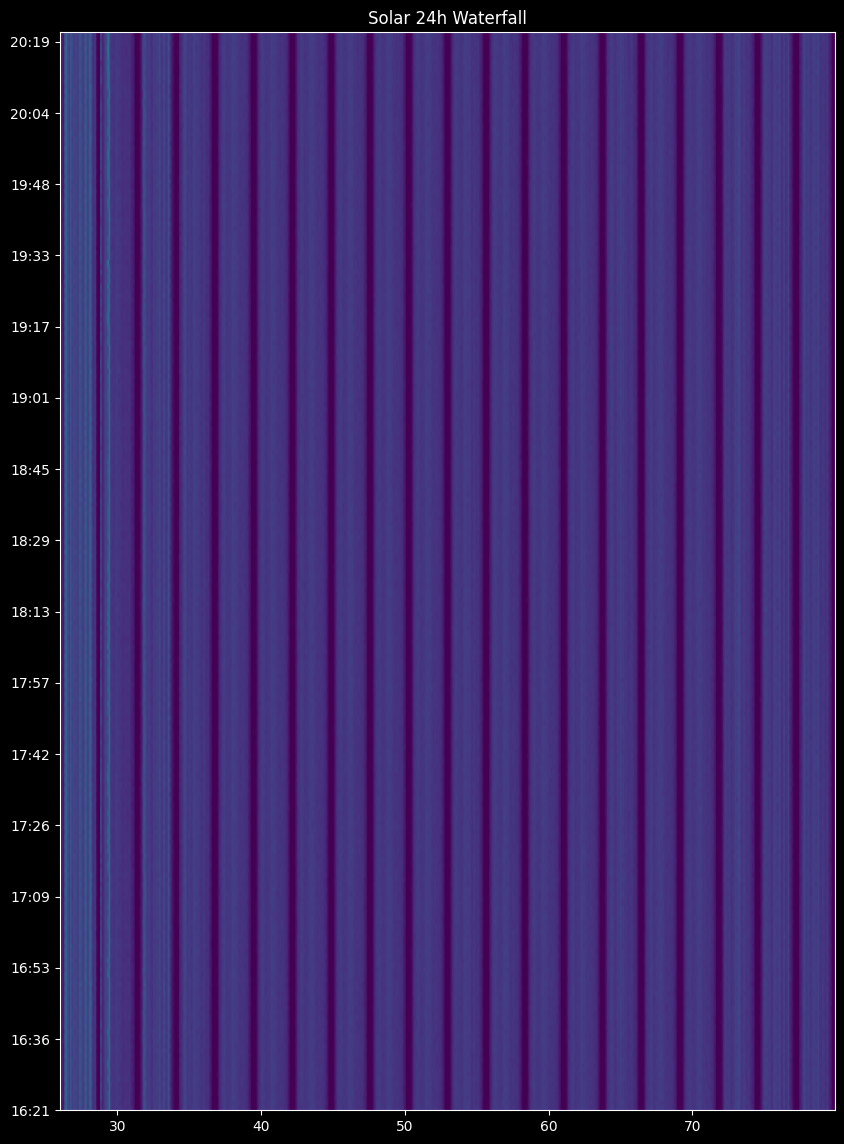
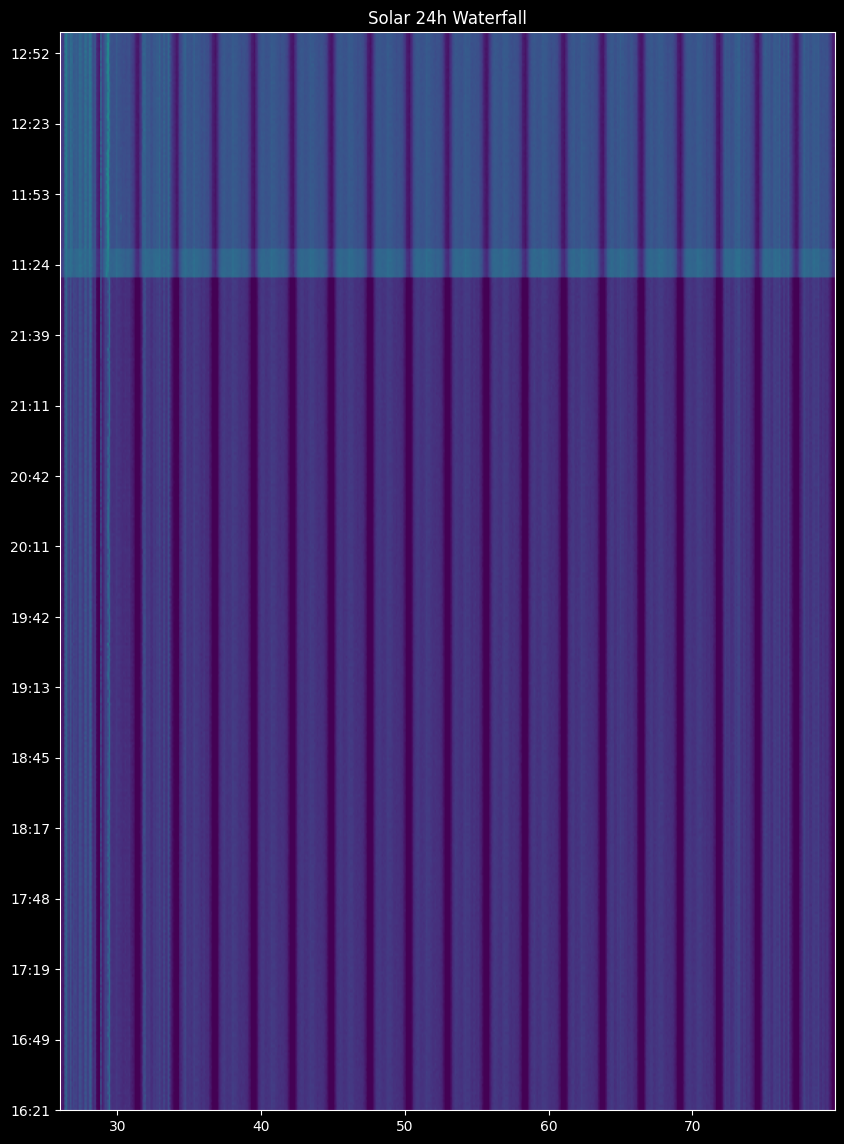
dieverse kleine anpassungen.

diff --git a/db_setup.py b/db_setup.py
@@ -1,0 +1,61 @@
+import os
+from sqlalchemy import create_engine, Column, Integer, String, Float, DateTime, Text, inspect
+from sqlalchemy.ext.declarative import declarative_base
+from sqlalchemy.orm import sessionmaker
+from dotenv import load_dotenv
+
+# Konfiguration laden
+load_dotenv()
+
+Base = declarative_base()
+
+# Definition der Tabellenstruktur (Schema)
+class FrequencySpectrum(Base):
+    __tablename__ = 'frequency_spectrum'
+    
+    id = Column(Integer, primary_key=True, autoincrement=True)
+    timestamp = Column(DateTime, nullable=False)
+    band_name = Column(Text, nullable=False)
+    frequency = Column(Float, nullable=False)
+    power = Column(Float, nullable=False)
+    receiver = Column(Text, nullable=True)
+    applied_gain = Column(Float, nullable=True)
+    sun_phase = Column(String(20), nullable=True)
+    created_at = Column(DateTime, server_default=None) # Wird durch DB oder App gesetzt
+
+def setup_database():
+    # Verbindungsparameter aus .env
+    host = os.getenv('POSTGRES_HOST')
+    port = os.getenv('POSTGRES_PORT', '5433')
+    db = os.getenv('POSTGRES_DB')
+    user = os.getenv('POSTGRES_USER')
+    pw = os.getenv('POSTGRES_PASSWORD')
+
+    db_url = f"postgresql://{user}:{pw}@{host}:{port}/{db}"
+    
+    try:
+        engine = create_engine(db_url)
+        inspector = inspect(engine)
+        
+        # Prüfen, ob Tabelle bereits existiert
+        if not inspector.has_table('frequency_spectrum'):
+            print(f"--- Datenbank-Setup ---")
+            print(f"Tabelle 'frequency_spectrum' wird auf {host}:{port} erstellt...")
+            
+            # Erstellt alle Tabellen, die in 'Base' definiert sind
+            Base.metadata.create_all(engine)
+            
+            print("✅ Tabelle erfolgreich angelegt!")
+        else:
+            print(f"ℹ Tabelle 'frequency_spectrum' existiert bereits auf {host}:{port}.")
+            
+            # Optional: Hier könnte man noch prüfen, ob einzelne Spalten fehlen (Migration)
+            columns = [c['name'] for c in inspector.get_columns('frequency_spectrum')]
+            if 'applied_gain' not in columns:
+                print("⚠ Warnung: 'applied_gain' fehlt. Bitte Schema aktualisieren!")
+
+    except Exception as e:
+        print(f"❌ Fehler beim Datenbank-Setup: {e}")
+
+if __name__ == "__main__":
+    setup_database()

diff --git a/frequency_scanner.py b/frequency_scanner.py
@@ -120,8 +120,6 @@ def run_scan():
             if len(parts) < 7: continue
             
             s_f, e_f, n_bins = float(parts[2]), float(parts[3]), int(parts[5])
-            
-            # Korrigierte Zeile: n_bins statt num_bins
             bin_powers = [float(x) for x in parts[6:6+n_bins] if x.strip()]
             
             freq_array = np.linspace(s_f, e_f, len(bin_powers), endpoint=False)
@@ -135,10 +133,10 @@ def run_scan():
                 save_new_gain(new_gain)
                 logger.info(f"⚖ Gain angepasst: {gain_val:.1f} -> {new_gain:.1f} (Peak war {max(power_values):.1f}dB)")
 
-        # 5. Datenbank-Speicherung
+        # [cite_start]5. Datenbank-Speicherung mit Port 5433 [cite: 1]
         conn = psycopg2.connect(
             host=os.getenv('POSTGRES_HOST'),
-            port=os.getenv('POSTGRES_PORT', '5432'),
+            port=os.getenv('POSTGRES_PORT', '5433'),
             database=os.getenv('POSTGRES_DB'),
             user=os.getenv('POSTGRES_USER'),
             password=os.getenv('POSTGRES_PASSWORD')

diff --git a/app.py b/app.py
@@ -14,7 +14,9 @@ app = Flask(__name__)
 # Verzeichnis für die generierten Bilder (Heatmaps/Plots)
 OUTPUT_DIR = "recordings"
 
-db_url = f"postgresql://{os.getenv('POSTGRES_USER')}:{os.getenv('POSTGRES_PASSWORD')}@{os.getenv('POSTGRES_HOST')}/{os.getenv('POSTGRES_DB')}"
+# [cite_start]Datenbank-Konfiguration mit Port 5433 [cite: 1]
+db_port = os.getenv('POSTGRES_PORT', '5433') 
+db_url = f"postgresql://{os.getenv('POSTGRES_USER')}:{os.getenv('POSTGRES_PASSWORD')}@{os.getenv('POSTGRES_HOST')}:{db_port}/{os.getenv('POSTGRES_DB')}"
 engine = create_engine(db_url)
 
 # Route um die statischen Bilder aus dem recordings-Ordner zu servieren
@@ -39,7 +41,8 @@ def get_stats():
                 'avg': round(row['avg_p'], 1)
             }
         return stats
-    except:
+    except Exception as e:
+        print(f"Fehler bei Stats-Abfrage: {e}")
         return {}
 
 # Modernes HTML Template basierend auf der solar.html

diff --git a/generate_heatmap.py b/generate_heatmap.py
@@ -12,7 +12,8 @@ load_dotenv()
 OUTPUT_DIR = "recordings"
 INTERVAL_SECONDS = 300 
 
-db_port = os.getenv('POSTGRES_PORT', '5432') # Fallback auf 5432
+# [cite_start]Port auf 5433 eingestellt [cite: 1]
+db_port = os.getenv('POSTGRES_PORT', '5433') 
 db_url = f"postgresql://{os.getenv('POSTGRES_USER')}:{os.getenv('POSTGRES_PASSWORD')}@{os.getenv('POSTGRES_HOST')}:{db_port}/{os.getenv('POSTGRES_DB')}"
 engine = create_engine(db_url)
 

diff --git a/README.md b/README.md
@@ -1,32 +1,30 @@
-veraltet.. bedarf der überarbeitung.....
+# SolarMonitor-RTL v2.5
 
-# SolarMonitor-RTL
+An automated radio spectrometer for monitoring solar radio bursts in the frequency range of 26 MHz to 80 MHz. The system utilizes RTL-SDR hardware, a PostgreSQL database for long-term data storage, and a Flask-based dashboard featuring automatic signal normalization.
 
-An automated radio spectrometer for monitoring solar radio bursts in the frequency range of 26 MHz to 80 MHz. The system utilizes an RTL-SDR dongle, stores data in a PostgreSQL database, and visualizes it via an interactive web interface.
+## Core Features
 
-## New Features (v2.0)
-
-* **Dynamic Gain Control:** Automatically calibrates the RTL-SDR gain by analyzing FM broadcast signals to prevent clipping and maximize sensitivity.
-* **Astronomical Awareness:** Calculates local solar phases (Day, Night, Twilight) using GPS coordinates to adapt scan intervals and provide context for solar events.
-* **Signal Normalization:** Stores applied gain values alongside power levels to allow "drift-free" visualization by normalizing data (Power - Gain).
-* **Smart Diagnostic Windows:** Periodically switches to the FM band to recalibrate the hardware without losing significant solar monitoring time.
+* **Intelligent Gain Control:** Automatically calibrates RTL-SDR gain by analyzing the FM broadcast band (88-108 MHz) to prevent clipping and maximize dynamic range.
+* **Astronomical Awareness:** Calculates solar phases (Day, Night, Twilight) based on GPS coordinates to dynamically adjust scan intervals and provide context for solar events.
+* **Signal Normalization:** Stores active hardware gain for every sample. Visualizations calculate (Power - Gain), enabling drift-free heatmaps without brightness jumps during gain transitions.
+* **Modern Dashboard:** Dark-mode web interface featuring live statistics, 48-hour dynamic trend graphs, and automated waterfall diagrams.
 
 ## System Architecture
 
-1. **Data Source:** `rtl_power` scans the spectrum, controlled by a Python wrapper that manages gain and frequency bands.
-2. **Database:** PostgreSQL stores raw signal data, applied gain, and astronomical metadata.
-3. **Astronomy Engine:** `astral` library provides precise sunrise/sunset times for the sensor location.
-4. **Backend:** Flask & SQLAlchemy providing the API and web server.
+1. **Scanner (frequency_scanner.py):** The data collection engine. Controls rtl_power, calculates solar phases, and manages gain regulation.
+2. **Visualizer (generate_heatmap.py):** A background service that generates PNG graphics from the database every 5 minutes.
+3. **Web Interface (app.py):** A Flask server (Port 5001) providing the dashboard and serving the generated images.
+4. **Database:** PostgreSQL used for storing high-resolution spectral data.
 
-## Installation
+## Installation and Setup
 
 ### 1. System Requirements
 
-* Raspberry Pi (tested on Pi 4B)
+* Raspberry Pi (tested on Pi 4B with OS Bookworm)
 * RTL-SDR USB dongle
-* Packages: `rtl-sdr`, `postgresql`, `libpq-dev`, `python3-pip`
+* Software: rtl-sdr, postgresql-client, python3-pip, python3-venv
 
-### 2. Project Setup
+### 2. Project Installation
 
 ```bash
 git clone https://github.com/kajoty/SolarMonitor-RTL
@@ -35,55 +33,87 @@ python3 -m venv venv
 source venv/bin/activate
 pip install -r requirements.txt
 
-
 ```
 
-### 3. Environment Configuration (`.env`)
+### 3. Environment Configuration (.env)
 
-Create a `.env` file with your location and database credentials:
+Create a .env file in the root directory. Note that here PostgreSQL is explicitly configured for Port 5433. While Port 5432 is the standard, this specific setup accounts for environments where two PostgreSQL installations are running simultaneously.
 
-```bash
+```ini
+# Database Configuration
 POSTGRES_HOST=192.168.178.100
+POSTGRES_PORT=5433
 POSTGRES_DB=solarmonitor
-RTL_GAIN=25.4  # Default starting gain
+POSTGRES_USER=admin
+POSTGRES_PASSWORD=your_password
+
+# RTL-SDR and Location
+RTL_DEVICE_INDEX=0
+RTL_GAIN=25.4
 LATITUDE=52.52
 LONGITUDE=13.40
 
-```
-
-## Database Structure
-
-The `frequency_spectrum` table has been upgraded to track hardware and astronomical states:
-
-| Column | Type | Description |
-| --- | --- | --- |
-| **timestamp** | TIMESTAMP | Time of measurement |
-| **band_name** | TEXT | "Solar_Radio" or "Diagnostic_FM" |
-| **frequency** | DOUBLE PRECISION | Center frequency in MHz |
-| **power** | DOUBLE PRECISION | Measured signal level in dB |
-| **applied_gain** | DOUBLE PRECISION | The hardware gain used for this sample |
-| **sun_phase** | VARCHAR(20) | "day", "night", or "twilight" |
-
-**Database Upgrade SQL:**
-
-```sql
-ALTER TABLE frequency_spectrum ADD COLUMN applied_gain FLOAT DEFAULT 0.0;
-ALTER TABLE frequency_spectrum ADD COLUMN sun_phase VARCHAR(20);
-CREATE INDEX idx_spectrum_gain_phase ON frequency_spectrum (timestamp DESC, sun_phase);
+# Frequency Range
+SOLAR_FREQ_START=26.0
+SOLAR_FREQ_END=80.0
 
 ```
 
-## Usage
+### 4. Database Initialization
 
-### Dynamic Gain Logic
+Before running the scanner, initialize the database structure. The following script checks if the required tables exist and creates them if necessary:
 
-The scanner automatically switches to **Diagnostic_FM** (88-108 MHz) every 30 minutes (10 minutes during twilight). It analyzes the peak power of local radio stations and adjusts the `gain_state.txt` to keep the hardware in its linear range (Target: -12 dB peak).
+```bash
+python3 db_setup.py
 
-### Visualization & Normalization
+```
 
-To eliminate "brightness stripes" in your heatmap caused by gain changes, use the following SQL logic in your visualization tool (e.g., Grafana):
-`SELECT timestamp, frequency, (power - applied_gain) AS normalized_power FROM frequency_spectrum;`
+## Database Schema
+
+The system uses a PostgreSQL table named frequency_spectrum. The schema is optimized for both raw data storage and normalized visualization:
+
+| Column | Type | Nullable | Description |
+| --- | --- | --- | --- |
+| **id** | INTEGER | No | Primary key (auto-incrementing) |
+| **timestamp** | TIMESTAMP | No | Precise time of the radio scan |
+| **band_name** | TEXT | No | Solar_Radio or Diagnostic_FM |
+| **frequency** | DOUBLE PRECISION | No | Center frequency in MHz |
+| **power** | DOUBLE PRECISION | No | Measured signal level in dB |
+| **receiver** | TEXT | Yes | Hardware identifier (e.g., rtl) |
+| **applied_gain** | DOUBLE PRECISION | Yes | The gain value used by the SDR during the scan |
+| **sun_phase** | VARCHAR | Yes | Astronomical state: day, night, or twilight |
+| **created_at** | TIMESTAMP | Yes | Database-side record creation timestamp |
+
+### Data Normalization
+
+To achieve consistent visualization regardless of automatic gain adjustments, the following calculation is applied within the SQL queries:
+`normalized_power = power - applied_gain`
+
+## Operation
+
+### Hardware Safety (Watchdog)
+
+To ensure the Pi reboots automatically in case of a system hang, enable the hardware watchdog:
+
+```bash
+echo "dtparam=watchdog=on" | sudo tee -a /boot/firmware/config.txt
+
+```
+
+### Running the Services
+
+It is recommended to set up the scripts as systemd services. For manual testing:
+
+1. **Scanner:** `python3 frequency_scanner.py` (typically triggered via Cron)
+2. **Heatmap Generator:** `python3 generate_heatmap.py` (runs continuously)
+3. **Web App:** `python3 app.py` (runs continuously on Port 5001)
+
+## Visualization Logic
+
+The scripts internally use the following formula to eliminate hardware influence:
+
+
+
+This allows for consistent comparison of solar bursts even when the system increases gain during night or twilight phases.
 
 ---
-
-t.b.c.
